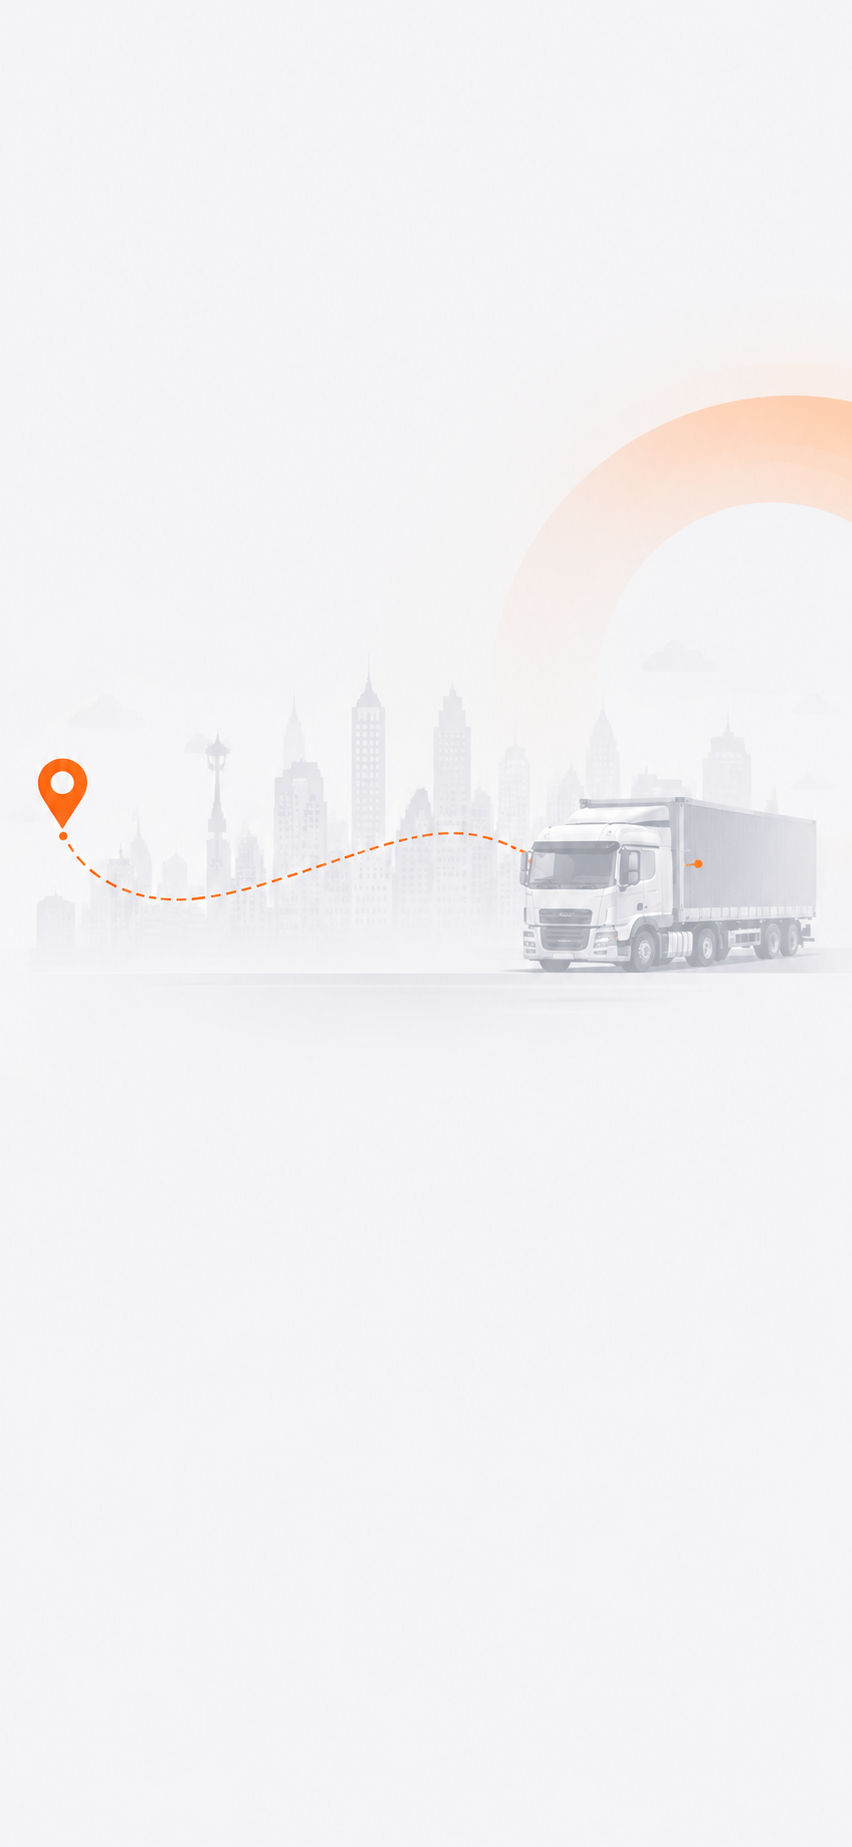
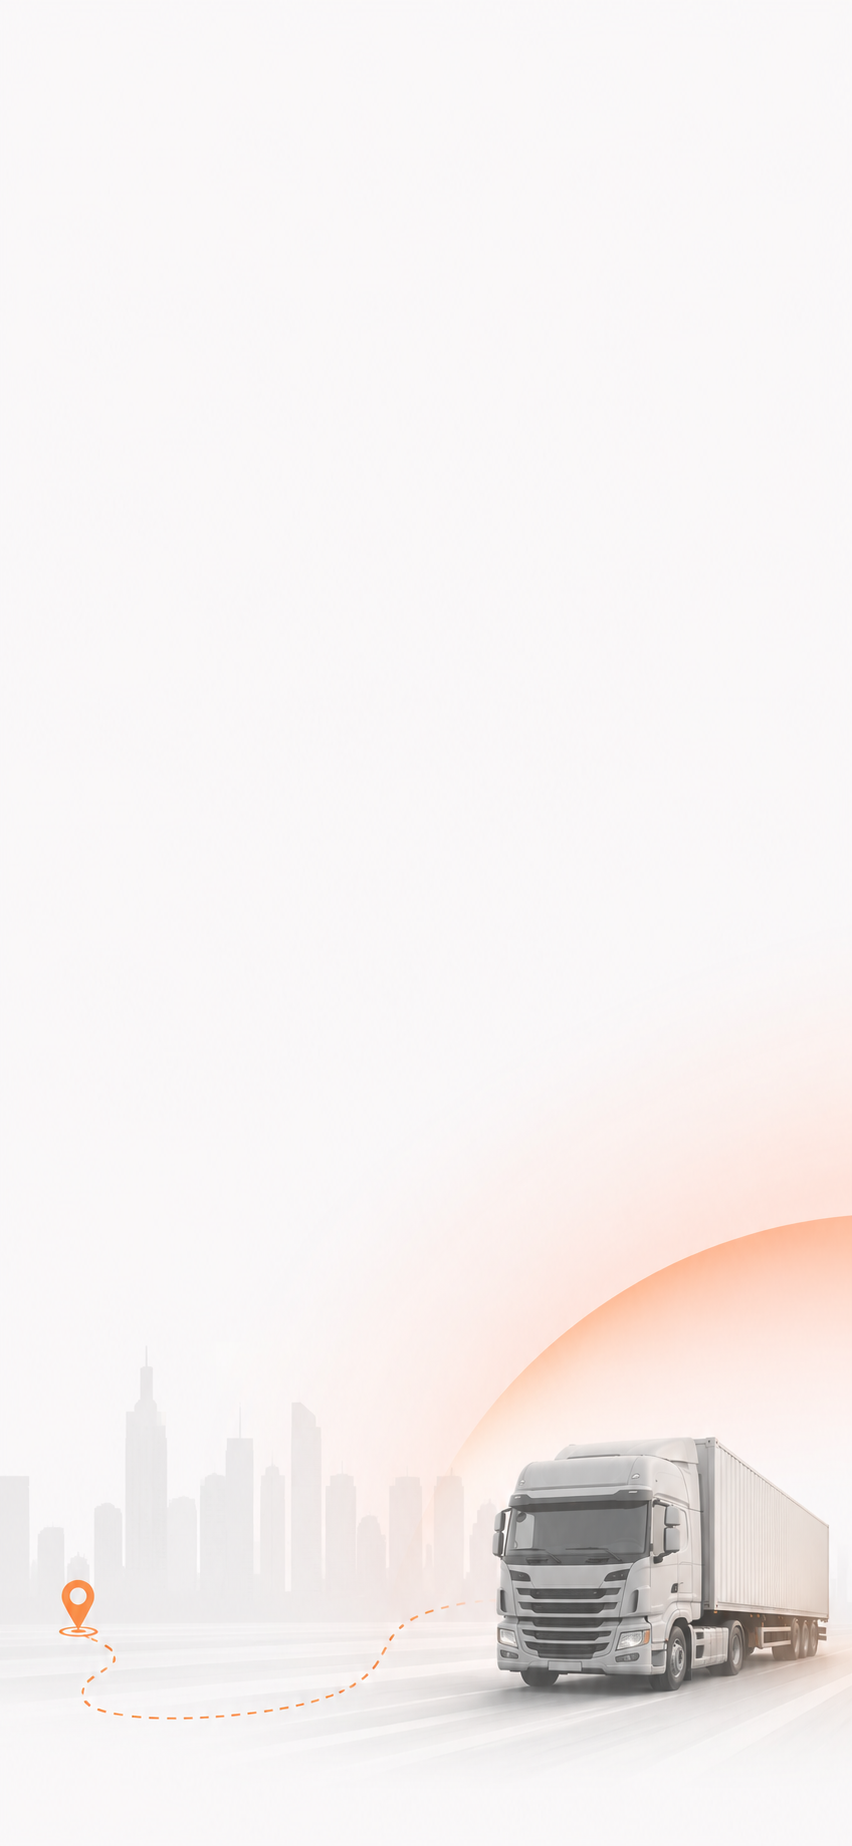
style(mobile): new hero bg + simplified centered login
- Replace hero image with truck anchored bottom-right (route line, pin,
  skyline, orange arc); top two-thirds kept light for the UI
- Simplify inputs to Username / Password (driver: phone / license)
- Remove the welcome heading, center the card, narrow it slightly

diff --git a/frontend/mobile-app/mercon-app/src/screens/driver/LoginScreen.tsx b/frontend/mobile-app/mercon-app/src/screens/driver/LoginScreen.tsx
@@ -76,26 +76,22 @@ const LoginScreen = () => {
         {/* Logo — centered, visual anchor */}
         <Image source={logo} style={styles.logo} resizeMode="contain" />
 
-        {/* Welcome */}
-        <Text style={styles.welcomeKicker}>Welcome Back</Text>
-        <Text style={styles.welcomeTitle}>Sign in to your workspace</Text>
-
         {/* Card */}
         <View style={styles.card}>
           <View style={styles.form}>
             <Input
-              label="Username or Mobile Number"
+              label="Username"
               value={identifier}
               onChangeText={setIdentifier}
-              placeholder="Username or +9665XXXXXXXX"
+              placeholder="Enter your username"
               autoCapitalize="none"
               iconLeft={<User size={20} color={Colors.gray400} />}
             />
             <Input
-              label="Password or License Number"
+              label="Password"
               value={secret}
               onChangeText={setSecret}
-              placeholder="Enter your password or license number"
+              placeholder="Enter your password"
               autoCapitalize="none"
               secureTextEntry={!showSecret}
               iconLeft={<Lock size={20} color={Colors.gray400} />}
@@ -152,31 +148,17 @@ const styles = StyleSheet.create({
   scroll: {
     flexGrow: 1,
     paddingHorizontal: Spacing.lg,
-    paddingTop: 64,          // below the safe area
-    paddingBottom: Spacing.lg,
-    justifyContent: 'flex-start',
+    paddingVertical: Spacing.lg,
+    justifyContent: 'center',   // center the login composition on the page
   },
   logo: {
     alignSelf: 'center',
     width: 200,
     height: 106,
   },
-  welcomeKicker: {
-    marginTop: Spacing['2xl'], // 32
-    textAlign: 'center',
-    fontSize: Typography.sm,
-    fontWeight: '500',
-    color: Colors.primary,
-  },
-  welcomeTitle: {
-    marginTop: Spacing.sm,     // 8
-    textAlign: 'center',
-    fontSize: Typography['2xl'],
-    fontWeight: '700',
-    color: '#1E1F28',
-  },
   card: {
-    marginTop: 28,
+    marginTop: Spacing['3xl'],   // 40 — breathing room under the logo
+    marginHorizontal: Spacing.sm, // slightly narrower than full width
     backgroundColor: Colors.white,
     borderRadius: Radius['2xl'],
     paddingHorizontal: Spacing.lg,
